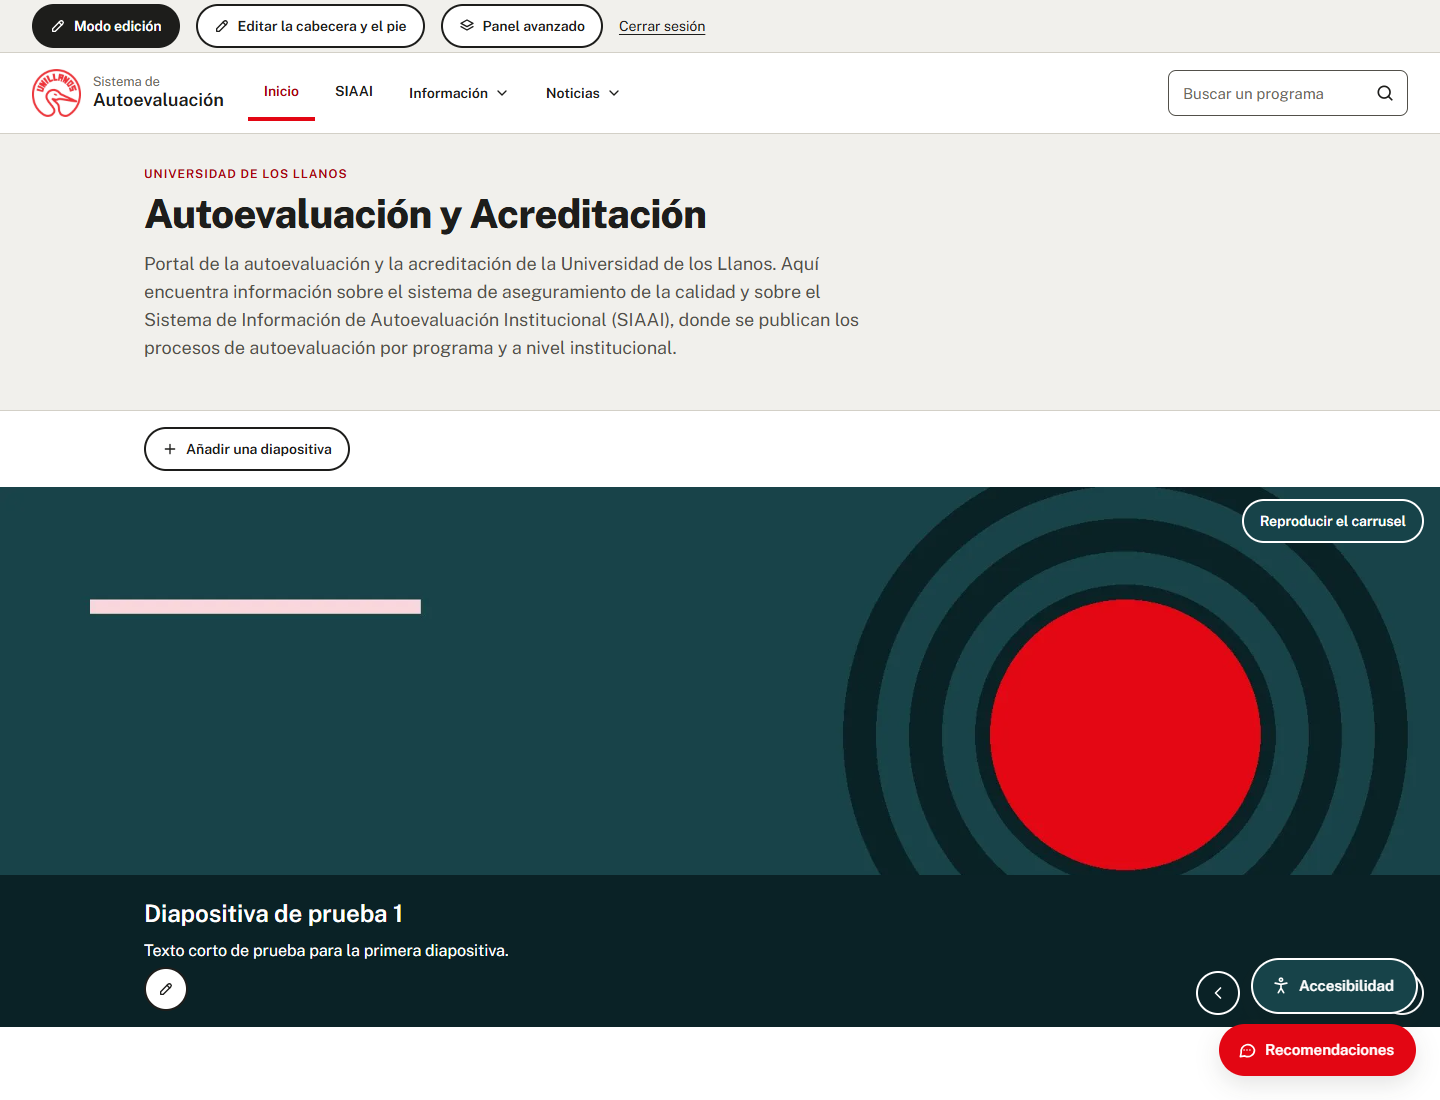
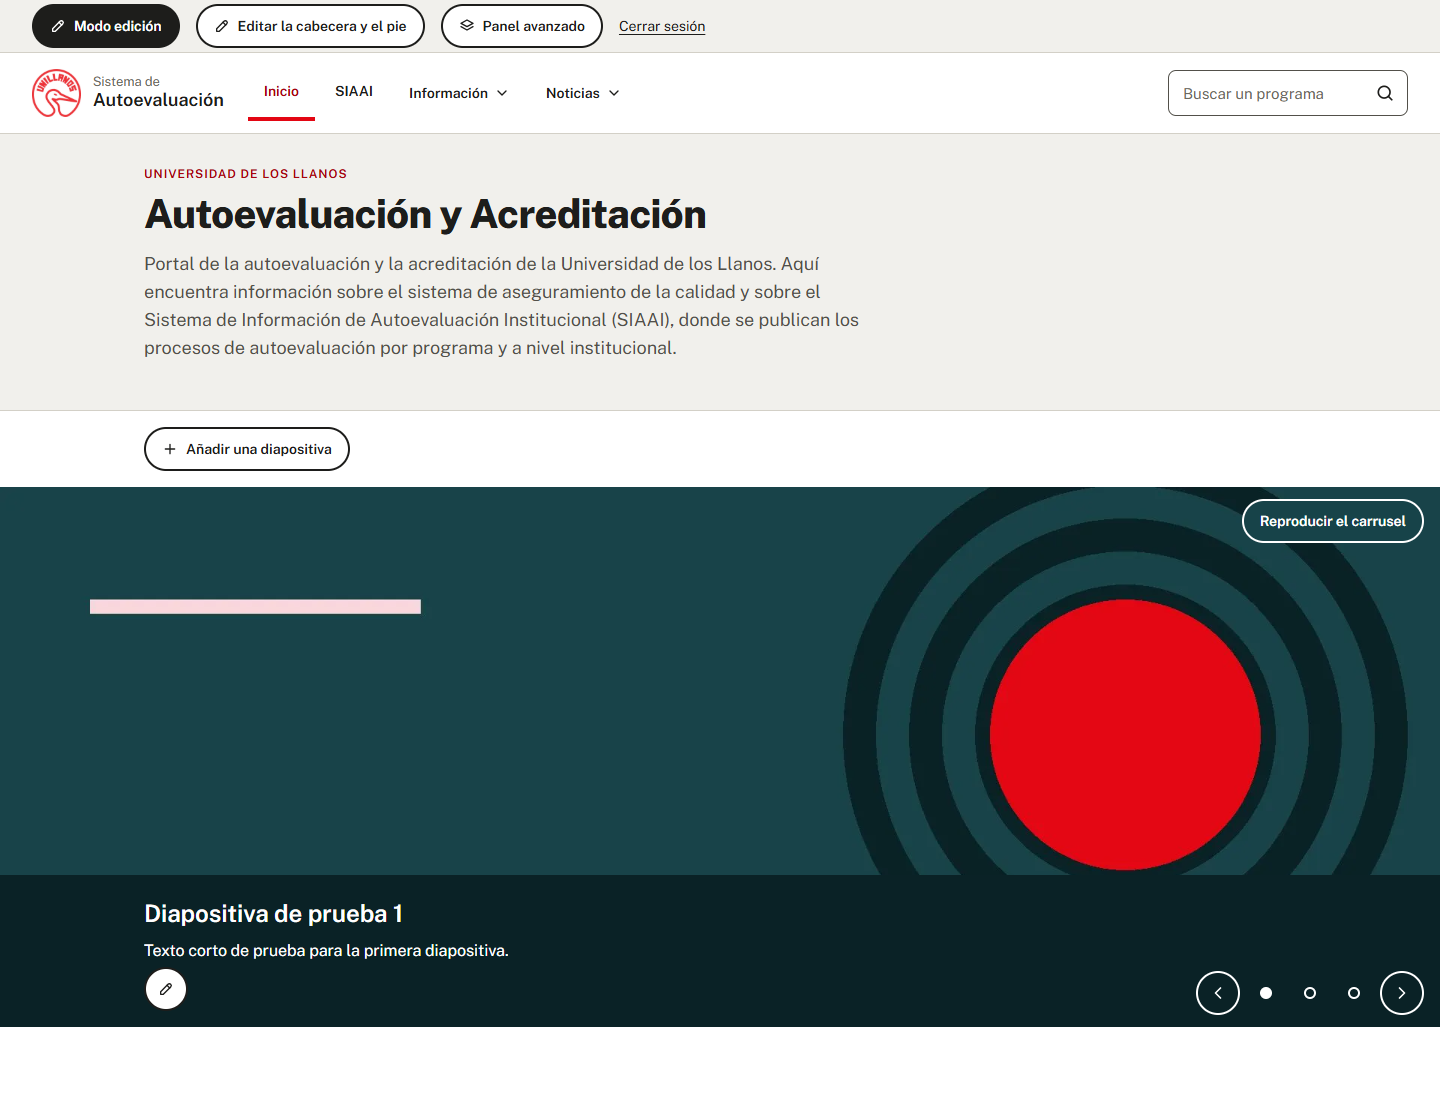
Capturas del manual: seis rehechas sin los botones flotantes encima
- 06, 07, 08, 11, 15 y 22 se capturan sin la columna de botones flotantes, que
  tapaba las flechas del carrusel y otros controles. Las capturas 13 y 14 siguen
  mostrándolos a propósito.
- Pendientes e implementación al día.

Changed region(s): [[0.8438, 0.8655, 1.0, 0.9891]]

diff --git a/docs/IMPLEMENTACION_DRUPAL.md b/docs/IMPLEMENTACION_DRUPAL.md
@@ -906,6 +906,6 @@ Cambios pedidos por el ingeniero tras revisar el sitio. Una tarea por commit, ca
 
 **Tarea 2 · sin franja superior y botones flotantes.** Se eliminó la franja negra (componente `topbar`, su CSS y los datos `franja_superior` y `url_govco` de `unillanos_autoeval.micrositio`). Las redes y los logos (GOV.CO incluido) siguen en el pie. Lo que la franja daba a quien edita pasa al componente `edicion-barra`: una barra clara, solo con el permiso de editar (`Modo edición`, edición del micrositio, página completa de Drupal y «Cerrar sesión»). El botón de accesibilidad es ahora un botón flotante (`unillanos:a11y`) en la columna `.ua-flotantes` (esquina inferior derecha), justo encima de «Recomendaciones» (`unillanos:fab`): aparición suave, elevación al pasar el ratón, panel que se abre hacia arriba con fundido y deslizamiento y se cierra con Escape, el botón «Cerrar» o un clic fuera. Las opciones son interruptores (`aria-pressed`) de 44 px; en pantallas pequeñas ambos botones muestran solo el ícono y el pie deja sitio debajo.
 
-*Al desplegar:* `drush deploy` importa `config/sync`, que ya no trae `url_govco` ni `franja_superior`; la importación las elimina de `unillanos_autoeval.micrositio`, por eso no hay una actualización de base de datos para ellas. Las capturas de `docs/manuales/img` se regeneraron el 23 de noviembre de 2026 y ya no muestran la barra negra (seis quedan por rehacer porque los botones flotantes tapan controles; ver `pendientes-acreditacion.md`).
+*Al desplegar:* `drush deploy` importa `config/sync`, que ya no trae `url_govco` ni `franja_superior`; la importación las elimina de `unillanos_autoeval.micrositio`, por eso no hay una actualización de base de datos para ellas. Las capturas de `docs/manuales/img` se regeneraron el 23 de noviembre de 2026 y ya no muestran la barra negra (las seis que tenían botones flotantes encima se rehicieron el 25 de noviembre).
 
 **Tarea 3 · carrusel propio en cada programa y en Institucional.** Campo de imagen de valor múltiple `field_galeria` (hasta 10; `alt` obligatorio, leyenda opcional en el título de la imagen, orden por arrastre; JPG/PNG/WebP de hasta 5 MB y 1280 px de ancho como mínimo) en los tipos `programa` y `proceso`, creado con `drupal/scripts/crear_galeria.php` y visible en los formularios por defecto y `acreditacion`. La página del programa lee **solo** su campo (servicio `GaleriaImagenes`, que comparte con `CarruselPortada` la construcción de la imagen en `ImagenesDeCarruselTrait`); la página «Institucional» lee el de su proceso institucional (`InstitucionalProcesos`: el más reciente sin programa y que no es de condiciones). Nunca se usan las diapositivas de la portada ni las imágenes de otro nodo. El componente `carousel` es el mismo (animación, avance, pausa y accesibilidad) con la variante `contenida` (dentro del contenedor, esquinas redondeadas) y diapositivas sin titular (sin franja: los controles llevan fondo propio y la lista de titulares sin JavaScript se omite). El carrusel va entre el bloque superior (texto y ficha) y las tarjetas de factores (`partials/autoevaluacion.html.twig`); sin factores, en su propia sección; sin imágenes no se imprime; con una sola no hay flechas, puntos ni avance. Decisión: la galería institucional vive en el proceso institucional (si se crea uno más nuevo, hay que subir las imágenes otra vez). Las imágenes de prueba (2–3 por nodo) viven en `sites/default/files/galeria/`, fuera de git.

diff --git a/docs/pendientes-acreditacion.md b/docs/pendientes-acreditacion.md
@@ -540,7 +540,7 @@ Hecho el 21 de noviembre de 2026 (copia previa: `$HOME/respaldos/antes-fase-9-re
 - [ ] **Galería de Institucional:** vive en el campo del proceso institucional más reciente (el que no es de un programa ni de condiciones por sede). Si se crea un proceso institucional más nuevo, hay que subir las imágenes otra vez. Alternativas descartadas: un nodo nuevo «Página institucional» o subir las imágenes en el formulario del micrositio.
 - [ ] **Alto contraste del sistema (Windows, `forced-colors`) con tema claro:** el pie pasa a fondo blanco y los logos blancos (Universidad, MinEducación y GOV.CO) desaparecen; con el logo de la Universidad transparente queda igual que los otros dos. Decidir si el pie lleva fondo propio en ese modo.
 - [ ] **Botones flotantes sobre el carrusel:** pueden tapar las flechas cuando el carrusel queda abajo a la derecha de la pantalla; basta con desplazar la página. Decidir si se quiere moverlos.
-- [ ] **Capturas de los manuales:** regeneradas el 23 de noviembre de 2026 (01 a 03 y 06 a 12 reemplazadas; 13 a 23 nuevas). Rehacer la 06, 07, 08, 11, 15 y 22: el botón flotante «Accesibilidad» tapa las flechas del carrusel u otros controles (con una ventana más alta o desplazando la página). Decidir si se difumina la 20 (Nuestro equipo: nombres, cargos, teléfonos y correos públicos del sitio de Acreditación).
+- [ ] **Capturas de los manuales:** regeneradas el 23 de noviembre de 2026 (01 a 03 y 06 a 12 reemplazadas; 13 a 23 nuevas) y rehechas el 25 de noviembre las 06, 07, 08, 11, 15 y 22, sin los botones flotantes encima. Falta decidir si se difumina la 20 (Nuestro equipo: nombres, cargos, teléfonos y correos públicos del sitio de Acreditación).
 - [ ] **Imágenes del carrusel:** las de prueba (3 en Ingeniería Electrónica y 2 en el proceso institucional) son generadas y solo existen en este equipo (`sites/default/files/galeria/`); Acreditación debe subir las reales.
 - [ ] **Alta de un programa:** el manual dice que **Añadir programa** pide **Título**, **Clave**, **Facultad** y **Nivel**; comprobar en el sitio, con una cuenta de Acreditación, que ese formulario muestra la **Clave** y que el programa nuevo recibe su dirección `/programas/<clave>`. La pantalla simple de la ficha (`/admin/acreditacion/programa/{node}/ficha`) oculta la clave a propósito.
 - [ ] **Noticias, páginas informativas y equipo:** no tienen acceso en el panel avanzado ni «+» en la página; hoy se crean por `/node/add/noticia`, `/node/add/pagina_informativa` y `/node/add/miembro_equipo`. Decidir si se añaden esos accesos.
